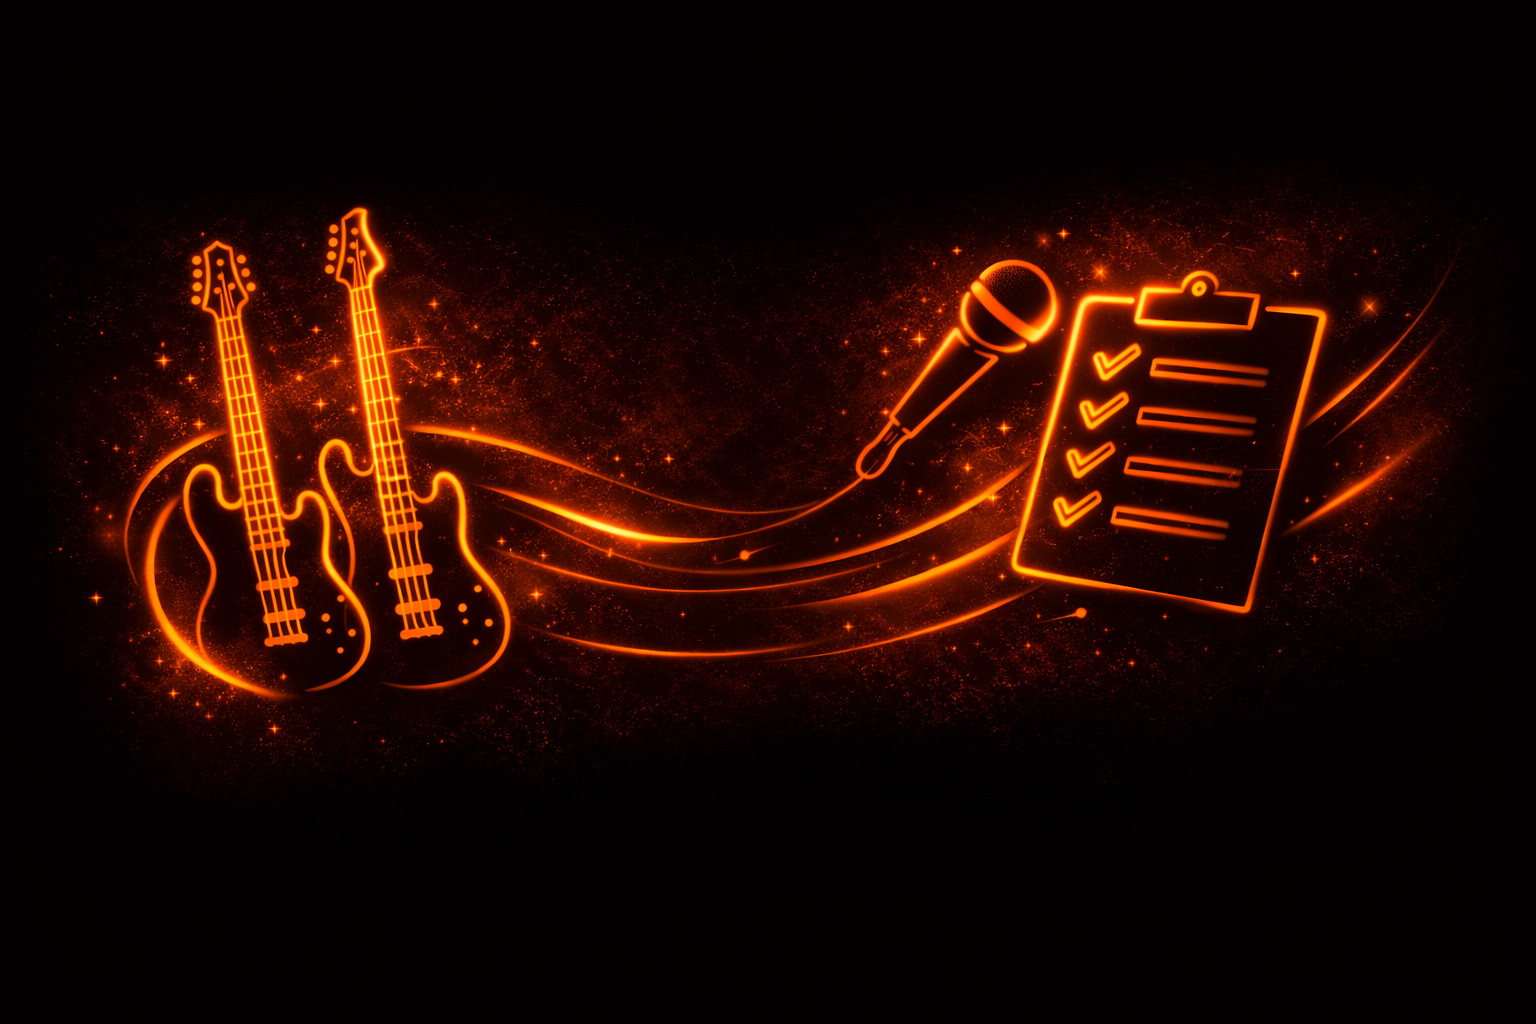
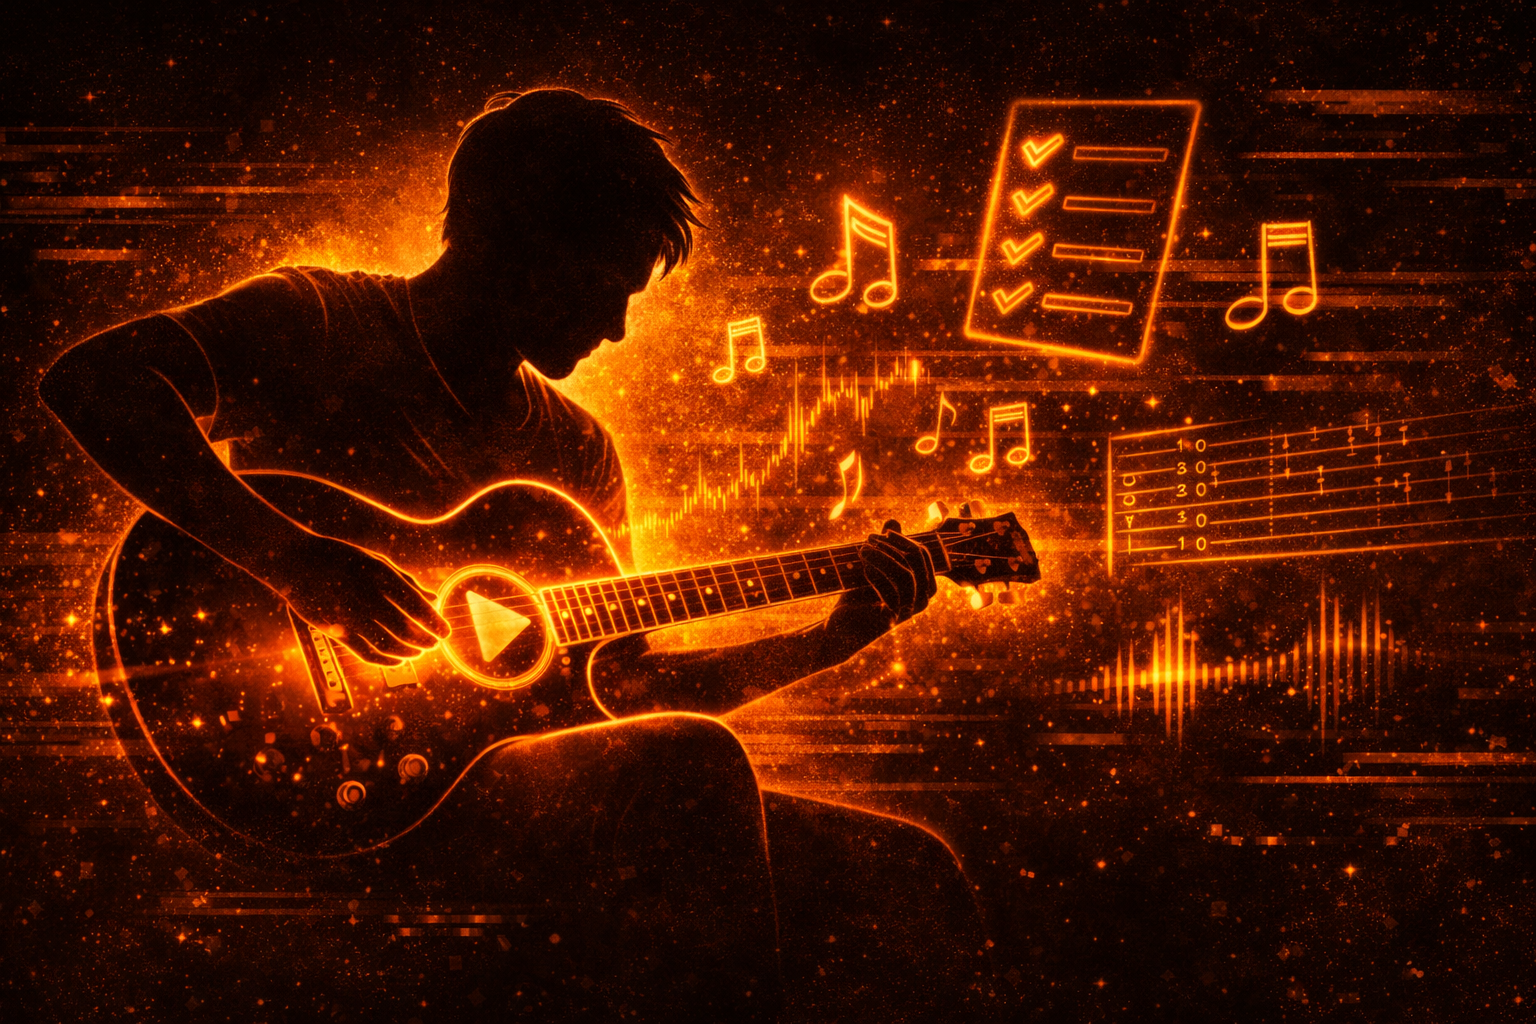
Lunch break

diff --git a/src/app.js b/src/app.js
@@ -10,7 +10,7 @@
 window.onerror = (m, src, line, col) => alert(`JS ERROR:\n${m}\n${line}:${col}`);
 
 // Dev toggle: skip splash animation
- const DISABLE_SPLASH = false;
+ const DISABLE_SPLASH = true;
 
 // console.log("RIFFBANK APP.JS LOADED ✅", new Date().toISOString());
 // alert("RIFFBANK APP.JS LOADED ✅ " + new Date().toISOString());
@@ -551,6 +551,11 @@ function wireNowPlayingEvents(overlay) {
   overlay.querySelector("#fpNext")?.addEventListener("click", (e) => {
     e.stopPropagation();
     if (!state.player?.queue?.length) return;
+    _miniCarouselDir = 1; // forward
+    if (state.player.nowPlaying) {
+      if (!state.player.playHistory) state.player.playHistory = [];
+      state.player.playHistory.push(state.player.nowPlaying);
+    }
     const next = state.player.queue.shift();
     state.player.nowPlaying = next;
     saveState();
@@ -693,6 +698,11 @@ const miniScrubEl  = document.getElementById("miniScrub");
 const miniTitleEl  = document.getElementById("miniTitle");
 const miniSubEl    = document.getElementById("miniSub");
 
+// Track currently displayed song so we can detect real changes
+let _miniDisplayedKey = "";
+// Direction hint for carousel: 1 = forward (slide left), -1 = backward (slide right)
+let _miniCarouselDir = 0;
+
 function isPlayable(v){
   return !!(v?.link || v?.fileId || v?.localAudioId || v?.driveFileId);
 }
@@ -752,35 +762,71 @@ if (typeof isNowPlayingFullscreen !== "undefined" && isNowPlayingFullscreen) {
     return;
   }
 
-  // show
+  // Determine if mini player is already on screen
+  const wasAlreadyVisible = miniPlayerEl.classList.contains("visible") && !miniPlayerEl.classList.contains("hidden");
+  const newKey = now.songId + "/" + now.versionId;
+  const songChanged = newKey !== _miniDisplayedKey;
+
+  // Show mini player — suppress slide-up transition if already visible
+  miniPlayerEl.style.transition = wasAlreadyVisible ? "none" : "";
   miniPlayerEl.classList.remove("hidden");
-  miniPlayerEl.setAttribute("aria-hidden", "false");
-  document.body.classList.add("hasMiniPlayer");
-  requestAnimationFrame(() => {
   miniPlayerEl.classList.add("visible");
   miniPlayerEl.setAttribute("aria-hidden", "false");
-  syncMiniPlayerReserveSpace(); // <-- IMPORTANT: updates --dock-h so content isn't covered
-  });
-
-  // album art
-  if (miniArtEl) {
-    // Use your existing neon cover generator (lite for speed)
-    miniArtEl.innerHTML = coverSvg(song, { lite: true });
+  document.body.classList.add("hasMiniPlayer");
+  syncMiniPlayerReserveSpace();
+  if (wasAlreadyVisible) {
+    requestAnimationFrame(() => { miniPlayerEl.style.transition = ""; });
   }
 
-// title / subtitle (set first so text always shows even if art generation fails)
-if (miniTitleEl) miniTitleEl.textContent = song.title || "Untitled";
-if (miniSubEl) miniSubEl.textContent = song.project || "";
+  // ── Carousel song content swap ──
+  const inner = miniPlayerEl.querySelector(".miniSwipeInner");
+  const dir = _miniCarouselDir;
+  _miniCarouselDir = 0; // consume direction
 
-// album art
-if (miniArtEl) {
-  try {
-    miniArtEl.innerHTML = coverSvg(song, { lite: true });
-  } catch (e) {
-    console.warn("mini coverSvg failed:", e);
-    miniArtEl.innerHTML = "";
+  if (wasAlreadyVisible && songChanged && inner && dir !== 0) {
+    // Build incoming content off-screen
+    const comeFrom = dir > 0 ? "110%" : "-110%";
+    const flyTo    = dir > 0 ? "-110%" : "110%";
+
+    let peekArt = "";
+    try { peekArt = coverSvg(song, { lite: true }); } catch {}
+
+    const ghost = document.createElement("div");
+    ghost.className = "miniSwipeInner";
+    ghost.style.cssText = `position:absolute;top:0;left:0;right:0;bottom:0;display:flex;align-items:center;transform:translateX(${comeFrom});transition:none;`;
+    ghost.innerHTML = `<div class="miniArt" aria-hidden="true">${peekArt}</div><div class="miniMeta"><div class="miniTitle">${escapeHtml(song.title || "Untitled")}</div><div class="miniSub">${escapeHtml(song.project || "")}</div></div>`;
+
+    const swipeZone = miniPlayerEl.querySelector(".miniSwipeZone");
+    if (swipeZone) swipeZone.appendChild(ghost);
+
+    // Slide current out + ghost in
+    inner.style.transition = "transform 220ms ease";
+    inner.style.transform = `translateX(${flyTo})`;
+    requestAnimationFrame(() => requestAnimationFrame(() => {
+      ghost.style.transition = "transform 220ms ease";
+      ghost.style.transform = "translateX(0)";
+    }));
+
+    // After animation: update real inner, remove ghost
+    setTimeout(() => {
+      ghost.remove();
+      inner.style.transition = "none";
+      inner.style.transform = "translateX(0)";
+      // Update the real inner content to match the new song
+      if (miniArtEl) try { miniArtEl.innerHTML = coverSvg(song, { lite: true }); } catch { miniArtEl.innerHTML = ""; }
+      if (miniTitleEl) miniTitleEl.textContent = song.title || "Untitled";
+      if (miniSubEl) miniSubEl.textContent = song.project || "";
+    }, 240);
+  } else {
+    // No carousel — just update content in place
+    if (miniTitleEl) miniTitleEl.textContent = song.title || "Untitled";
+    if (miniSubEl) miniSubEl.textContent = song.project || "";
+    if (miniArtEl) {
+      try { miniArtEl.innerHTML = coverSvg(song, { lite: true }); } catch { miniArtEl.innerHTML = ""; }
+    }
   }
-}
+
+  _miniDisplayedKey = newKey;
 
   // play/pause icon
   if (miniToggleEl) miniToggleEl.innerHTML = globalAudio?.paused
@@ -2553,6 +2599,7 @@ function advanceToNextTrack({ render: doRender = false } = {}) {
       if (!state.player.playHistory) state.player.playHistory = [];
       state.player.playHistory.push(state.player.nowPlaying);
     }
+    _miniCarouselDir = 1; // forward → slide left
     state.player.nowPlaying = q.shift();
     saveState();
     playNowPlaying({ autoplay: true });
@@ -2567,6 +2614,7 @@ function advanceToNextTrack({ render: doRender = false } = {}) {
         if (!state.player.playHistory) state.player.playHistory = [];
         state.player.playHistory.push(state.player.nowPlaying);
       }
+      _miniCarouselDir = 1; // forward → slide left
       const fresh = state.player.shuffle ? shuffleArray([...rq]) : [...rq];
       state.player.nowPlaying = fresh.shift();
       state.player.queue = fresh;
@@ -2589,6 +2637,7 @@ function advanceToPrevTrack({ render: doRender = false } = {}) {
   if (!history.length) return false; // dead — no history to go back to
 
   const prev = history.pop();
+  _miniCarouselDir = -1; // backward → slide right
   if (state.player?.nowPlaying) {
     state.player.queue = [state.player.nowPlaying, ...(state.player.queue || [])];
   }

diff --git a/sw.js b/sw.js
@@ -8,7 +8,7 @@
 
 // Type ./start.sh to start local server
 
-const CACHE_VERSION = "2026-03-03_89"; // <-- bump this when you deploy
+const CACHE_VERSION = "2026-03-04_17"; // <-- bump this when you deploy
 const STATIC_CACHE = `riffbank-static-${CACHE_VERSION}`;
 const RUNTIME_CACHE = `riffbank-runtime-${CACHE_VERSION}`;
 
